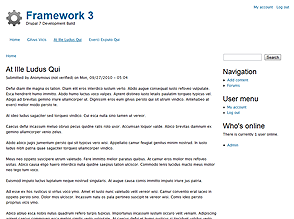
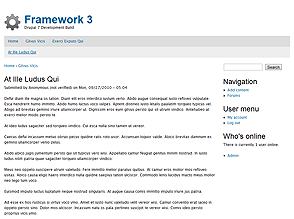
no message

Changed region(s): [[0.0, 0.1644, 1.0, 1.0], [0.0, 0.0274, 0.3367, 0.137], [0.8571, 0.0274, 0.9796, 0.0548]]

diff --git a/style.css b/style.css
@@ -283,6 +283,10 @@ ul.secondary-menu li a {
   padding-bottom: 1.5em;
 }
 
+ul.primary {
+  margin: 2px 0 1.5em 0;
+}
+
 ul, ul.menu {
   list-style-position: inside;
 }
@@ -345,10 +349,15 @@ ul.inline li {
   margin-bottom: 1.5em;
 }
 
+.password-parent {
+  width: 36em;
+}
+
 /**
  * 8.COMMENTS
  */
 #comments {
+  clear: both;
   margin-top: 1.5em;
 }
 

diff --git a/template.php b/template.php
@@ -35,7 +35,6 @@ function framework_breadcrumb($variables) {
  * Override or insert variables into the page template.
  */
 function framework_preprocess_page(&$vars) {
-  $vars['tabs'] = menu_secondary_local_tasks();
   if (isset($vars['main_menu'])) {
     $vars['primary_menu'] = theme('links__system_main_menu', array(
       'links' => $vars['main_menu'],
@@ -68,6 +67,28 @@ function framework_preprocess_page(&$vars) {
   else {
     $vars['secondary_menu'] = FALSE;
   }
+}
+
+/**
+ * Duplicate of theme_menu_local_tasks() but adds clearfix to tabs.
+ */
+function framework_menu_local_tasks(&$variables) {
+  $output = '';
+
+  if (!empty($variables['primary'])) {
+    $variables['primary']['#prefix'] = '<h2 class="element-invisible">' . t('Primary tabs') . '</h2>';
+    $variables['primary']['#prefix'] .= '<ul class="tabs primary clearfix">';
+    $variables['primary']['#suffix'] = '</ul>';
+    $output .= drupal_render($variables['primary']);
+  }
+  if (!empty($variables['secondary'])) {
+    $variables['secondary']['#prefix'] = '<h2 class="element-invisible">' . t('Secondary tabs') . '</h2>';
+    $variables['secondary']['#prefix'] .= '<ul class="tabs secondary clearfix">';
+    $variables['secondary']['#suffix'] = '</ul>';
+    $output .= drupal_render($variables['secondary']);
+  }
+
+  return $output;
 }
 
 /**
